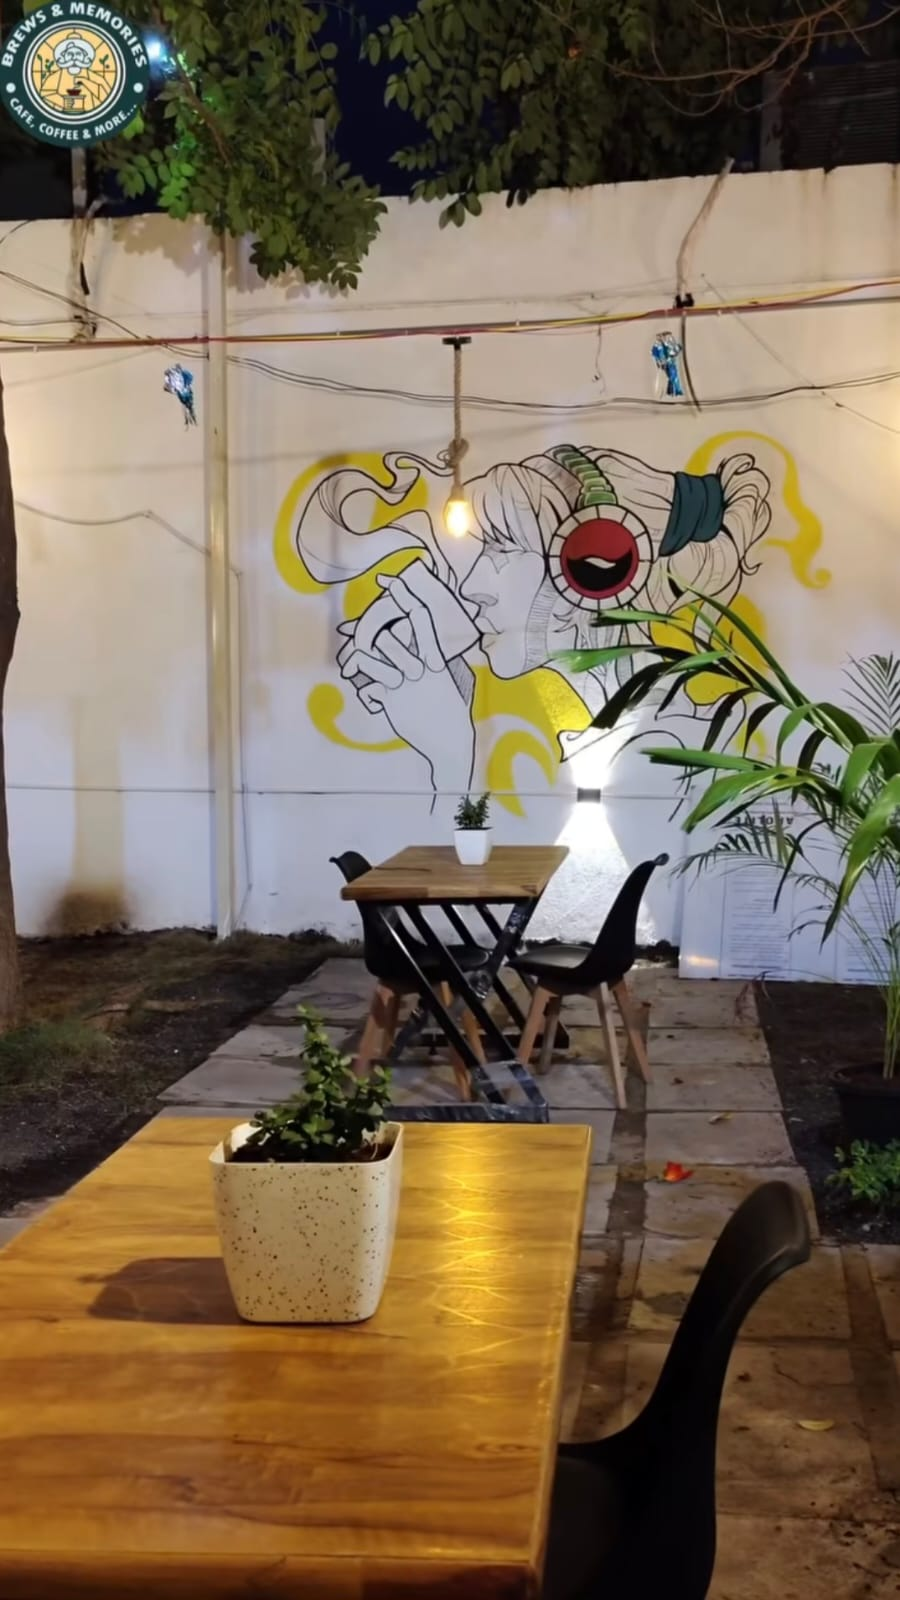
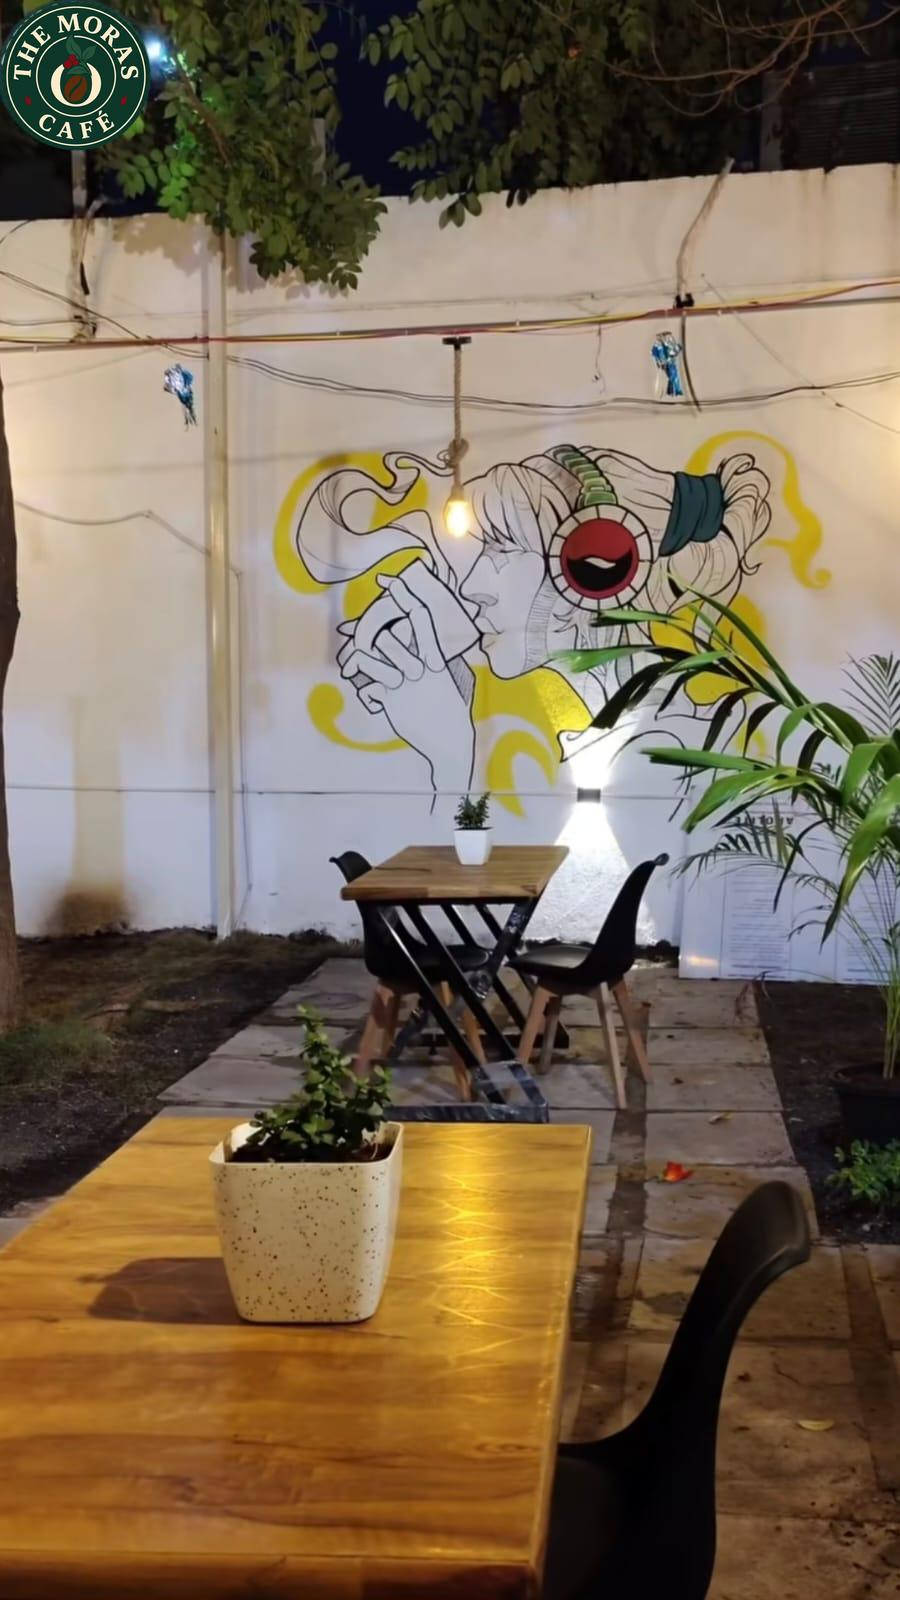
feat(gallery): integrate authentic garden terrace and mural photography across about, reserve, and moments pages

Changed region(s): [[0.0, 0.0, 0.1867, 0.0938]]

diff --git a/frontend/src/pages/About.jsx b/frontend/src/pages/About.jsx
@@ -29,10 +29,10 @@ function About() {
               The Moras Cafe was founded on a simple, timeless belief: a true neighborhood cafe is not merely a place to grab coffee, but a warm sanctuary where people pause, connect, and feel genuinely known.
             </p>
             <p style={{ fontSize: '1.02rem', lineHeight: 1.8, color: 'var(--text-light)', marginBottom: 20 }}>
-              Nestled at B.M. Patil Circle along Vijayapura's Ring Road, we combine artisan roasting techniques with 100% pure vegetarian culinary craft. From slow-pulled espresso shots to hand-stretched stone-baked pizzas, every plate is prepared fresh to order.
+              Nestled at B.M. Patil Circle along Vijayapura's Ring Road, we combine artisan coffee brewing with 100% pure vegetarian culinary craft. From slow-pulled espresso shots to hand-stretched stone-baked pizzas, every plate is prepared fresh to order.
             </p>
             <p style={{ fontSize: '1.02rem', lineHeight: 1.8, color: 'var(--text-light)', marginBottom: 28 }}>
-              Whether you are discovering a quiet corner with a curated book, sharing laughter with longtime friends, or celebrating an evening milestone, we pour our heart into every detail.
+              Whether you are discovering a quiet corner with a curated book, sharing laughter with longtime friends, or celebrating an evening milestone under fairy lights, we pour our heart into every detail.
             </p>
             <div>
               <Link to="/menu" className="btn-editorial-primary" style={{ padding: '14px 32px' }}>
@@ -41,31 +41,61 @@ function About() {
             </div>
           </div>
 
+          {/* Authentic Atmosphere Showcase */}
           <div style={{ position: 'relative' }}>
             <div style={{
-              background: '#FFFFFF',
+              position: 'relative',
               borderRadius: '24px',
-              padding: '40px 32px',
-              border: '1px solid var(--cream-dark)',
-              boxShadow: '0 20px 50px rgba(15, 61, 62, 0.08)',
-              textAlign: 'center'
+              overflow: 'hidden',
+              boxShadow: '0 20px 50px rgba(15, 61, 62, 0.16)',
+              border: '2px solid rgba(214, 210, 196, 0.7)',
+              aspectRatio: '4/5',
+              background: '#0F3D3E'
             }}>
-              <div style={{ display: 'flex', justifyContent: 'center', marginBottom: 24 }}>
-                <img 
-                  src="/logo.png" 
-                  alt="The Moras Cafe Emblem" 
-                  style={{ width: '100%', maxWidth: 200, height: 'auto', objectFit: 'contain', filter: 'drop-shadow(0 10px 20px rgba(15,61,62,0.1))' }} 
-                />
+              <img 
+                src="/images/instagram/hightide_sagar.jpeg" 
+                alt="The Moras Cafe serene garden dining table under warm evening pendant lights" 
+                style={{ width: '100%', height: '100%', objectFit: 'cover', display: 'block' }}
+              />
+              <div style={{
+                position: 'absolute',
+                bottom: 18,
+                left: 18,
+                background: 'rgba(15, 61, 62, 0.92)',
+                color: '#FAF5EF',
+                padding: '8px 18px',
+                borderRadius: '30px',
+                fontSize: '0.82rem',
+                fontWeight: 700,
+                letterSpacing: '0.5px',
+                backdropFilter: 'blur(8px)',
+                display: 'flex',
+                alignItems: 'center',
+                gap: 8,
+                boxShadow: '0 4px 16px rgba(0,0,0,0.25)'
+              }}>
+                <span style={{ color: '#10b981', fontSize: '0.75rem' }}>●</span>
+                <span>Garden Terrace · Vijayapura</span>
               </div>
-              <h2 style={{ fontFamily: "'Playfair Display', serif", fontSize: '1.6rem', color: 'var(--green)', margin: '0 0 8px' }}>
-                The Moras Cafe
-              </h2>
-              <div style={{ color: '#b45309', fontSize: '0.85rem', letterSpacing: '2px', textTransform: 'uppercase', fontWeight: 700, marginBottom: 16 }}>
-                Vijayapura · Karnataka
-              </div>
-              <p style={{ color: 'var(--text-light)', fontSize: '0.94rem', lineHeight: 1.7, margin: 0 }}>
-                Specialty brews, artisan bites, and comfortable spaces crafted for the city we love.
-              </p>
+            </div>
+
+            {/* Official Brand Stamp Seal Badge */}
+            <div style={{
+              position: 'absolute',
+              top: -18,
+              right: -18,
+              width: 76,
+              height: 76,
+              borderRadius: '50%',
+              boxShadow: '0 8px 24px rgba(15,61,62,0.22)',
+              overflow: 'hidden',
+              background: '#FAF5EF'
+            }}>
+              <img 
+                src="/images/brand/secondary-badge-light.png" 
+                alt="The Moras Cafe Seal" 
+                style={{ width: '100%', height: '100%', objectFit: 'contain' }}
+              />
             </div>
           </div>
         </div>
@@ -88,22 +118,22 @@ function About() {
               {
                 num: '01',
                 title: 'Artisan Brews',
-                desc: 'Specialty coffee beans selected and precision-extracted for the cleanest, most aromatically rich cup in Vijayapura.'
+                desc: 'Carefully roasted coffee beans precision-extracted for clean, aromatically rich espresso and specialty frappes.'
               },
               {
                 num: '02',
                 title: 'Pure Vegetarian Craft',
-                desc: 'A dedicated 100% vegetarian kitchen serving sourdough-crust pizzas, fresh pasta, loaded sandwiches, and sizzling treats.'
+                desc: 'A dedicated 100% vegetarian kitchen serving stone-baked pizzas, fresh pasta, loaded sandwiches, and sizzling treats.'
               },
               {
                 num: '03',
                 title: 'Slow Ambiance',
-                desc: 'Comfortable seating, acoustic warmth, and peaceful lighting designed for unhurried conversations and quiet focus.'
+                desc: 'Open-air garden seating, acoustic warmth, and peaceful lighting designed for unhurried conversations and quiet focus.'
               },
               {
                 num: '04',
                 title: 'Curated Library & Games',
-                desc: 'Complimentary reading library and classic tabletop games to unwind with friends and family at your leisure.'
+                desc: 'Complimentary reading library and classic tabletop games to unplug and make memories with friends and family.'
               }
             ].map((pillar) => (
               <div key={pillar.num} style={{
@@ -127,6 +157,103 @@ function About() {
                 </p>
               </div>
             ))}
+          </div>
+        </div>
+      </section>
+
+      {/* CHAPTER 3: OUR SPACES & ATMOSPHERE (GENUINE PHOTO TRILOGY) */}
+      <section style={{ padding: '70px 5%' }}>
+        <div style={{ maxWidth: 1160, margin: '0 auto' }}>
+          <div style={{ textAlign: 'center', marginBottom: 44 }}>
+            <span style={{ fontSize: '0.8rem', letterSpacing: '3px', textTransform: 'uppercase', color: 'var(--green)', fontWeight: 800 }}>
+              The Vibe
+            </span>
+            <h2 style={{ fontFamily: "'Playfair Display', serif", fontSize: 'clamp(2rem, 3.5vw, 2.8rem)', color: 'var(--green)', margin: '8px 0 10px' }}>
+              Spaces Designed to <em>Unwind</em>
+            </h2>
+            <p style={{ color: 'var(--text-light)', maxWidth: 620, margin: '0 auto', fontSize: '1rem', lineHeight: 1.6 }}>
+              Step into an intimate, greenery-wrapped oasis where every corner has its own unique mood.
+            </p>
+          </div>
+
+          <div style={{ display: 'grid', gridTemplateColumns: 'repeat(auto-fit, minmax(300px, 1fr))', gap: '28px' }}>
+            {/* Photo 1: Garden Canopy */}
+            <div style={{
+              background: '#FFFFFF',
+              borderRadius: '20px',
+              overflow: 'hidden',
+              border: '1px solid var(--cream-dark)',
+              boxShadow: '0 12px 32px rgba(15, 61, 62, 0.06)'
+            }}>
+              <div style={{ height: '340px', overflow: 'hidden' }}>
+                <img 
+                  src="/images/instagram/hightide_sagar.jpeg" 
+                  alt="Outdoor garden terrace dining with fairy lights" 
+                  style={{ width: '100%', height: '100%', objectFit: 'cover' }}
+                  loading="lazy"
+                />
+              </div>
+              <div style={{ padding: '24px 20px' }}>
+                <h3 style={{ fontFamily: "'Playfair Display', serif", fontSize: '1.25rem', color: 'var(--green)', margin: '0 0 8px' }}>
+                  The Garden Canopy
+                </h3>
+                <p style={{ color: 'var(--text-light)', fontSize: '0.9rem', lineHeight: 1.6, margin: 0 }}>
+                  Intimate open-air dining tables shaded by trees, framed by white picket fences, and softly lit with warm pendant bulbs.
+                </p>
+              </div>
+            </div>
+
+            {/* Photo 2: Twilight Evenings */}
+            <div style={{
+              background: '#FFFFFF',
+              borderRadius: '20px',
+              overflow: 'hidden',
+              border: '1px solid var(--cream-dark)',
+              boxShadow: '0 12px 32px rgba(15, 61, 62, 0.06)'
+            }}>
+              <div style={{ height: '340px', overflow: 'hidden' }}>
+                <img 
+                  src="/images/instagram/mahantesh_loni.jpeg" 
+                  alt="Twilight ambience with glowing dreamcatcher" 
+                  style={{ width: '100%', height: '100%', objectFit: 'cover' }}
+                  loading="lazy"
+                />
+              </div>
+              <div style={{ padding: '24px 20px' }}>
+                <h3 style={{ fontFamily: "'Playfair Display', serif", fontSize: '1.25rem', color: 'var(--green)', margin: '0 0 8px' }}>
+                  Twilight Ambience
+                </h3>
+                <p style={{ color: 'var(--text-light)', fontSize: '0.9rem', lineHeight: 1.6, margin: 0 }}>
+                  Handcrafted dreamcatchers and bohemian accents casting golden glow across the evening lawn as the sun sets.
+                </p>
+              </div>
+            </div>
+
+            {/* Photo 3: The Coffee Mural */}
+            <div style={{
+              background: '#FFFFFF',
+              borderRadius: '20px',
+              overflow: 'hidden',
+              border: '1px solid var(--cream-dark)',
+              boxShadow: '0 12px 32px rgba(15, 61, 62, 0.06)'
+            }}>
+              <div style={{ height: '340px', overflow: 'hidden' }}>
+                <img 
+                  src="/images/instagram/manju_duddagi.jpeg" 
+                  alt="Artistic coffee mural corner in outdoor seating" 
+                  style={{ width: '100%', height: '100%', objectFit: 'cover' }}
+                  loading="lazy"
+                />
+              </div>
+              <div style={{ padding: '24px 20px' }}>
+                <h3 style={{ fontFamily: "'Playfair Display', serif", fontSize: '1.25rem', color: 'var(--green)', margin: '0 0 8px' }}>
+                  The Coffee Mural Corner
+                </h3>
+                <p style={{ color: 'var(--text-light)', fontSize: '0.9rem', lineHeight: 1.6, margin: 0 }}>
+                  Vibrant custom wall art celebrating music, coffee culture, and unhurried good times with your squad.
+                </p>
+              </div>
+            </div>
           </div>
         </div>
       </section>

diff --git a/frontend/src/pages/Reserve.jsx b/frontend/src/pages/Reserve.jsx
@@ -1,4 +1,4 @@
-import { useState } from 'react';
+import { useState } from 'react';
 import api from '../services/api';
 import useSEO from '../hooks/useSEO';
 
@@ -61,7 +61,8 @@ function Reserve() {
         <div className="section-divider" />
       </div>
 
-      <div className="reservation-form-container">
+      <div className="reservation-page-split" style={{ maxWidth: 1140, margin: '0 auto', display: 'grid', gridTemplateColumns: 'repeat(auto-fit, minmax(320px, 1fr))', gap: '40px', alignItems: 'start' }}>
+        <div className="reservation-form-container" style={{ margin: 0, width: '100%', maxWidth: 'none' }}>
         {success ? (
           <div className="order-success">
             <div className="success-icon" style={{ fontSize: '3.5rem', marginBottom: 16 }}>🎉</div>
@@ -218,6 +219,50 @@ function Reserve() {
             </button>
           </form>
         )}
+      </div>
+
+        {/* Atmosphere Preview Card */}
+        <div className="reservation-atmosphere-card" style={{ background: '#FFFFFF', borderRadius: '24px', overflow: 'hidden', border: '1px solid var(--cream-dark)', boxShadow: '0 16px 40px rgba(15,61,62,0.08)' }}>
+          <div style={{ position: 'relative', height: 320, overflow: 'hidden' }}>
+            <img 
+              src="/images/instagram/hightide_sagar.jpeg" 
+              alt="Outdoor garden table seating under warm evening lights at The Moras Cafe"
+              style={{ width: '100%', height: '100%', objectFit: 'cover', display: 'block' }}
+            />
+            <div style={{ position: 'absolute', bottom: 14, left: 14, background: 'rgba(15, 61, 62, 0.92)', color: '#FAF5EF', padding: '6px 14px', borderRadius: 20, fontSize: '0.78rem', fontWeight: 700, backdropFilter: 'blur(8px)', display: 'flex', alignItems: 'center', gap: 6 }}>
+              <span style={{ color: '#10b981' }}>●</span>
+              <span>Garden Terrace Seating</span>
+            </div>
+          </div>
+          <div style={{ padding: '28px 24px' }}>
+            <h3 style={{ fontFamily: "'Playfair Display', serif", fontSize: '1.4rem', color: 'var(--green)', margin: '0 0 10px' }}>
+              Your Table Awaits
+            </h3>
+            <p style={{ color: 'var(--text-light)', fontSize: '0.92rem', lineHeight: 1.6, margin: '0 0 20px' }}>
+              Whether you prefer our quiet indoor library corners or our fairy-lit open-air garden, every table at The Moras Cafe is prepared with warm hospitality.
+            </p>
+            <ul style={{ listStyle: 'none', padding: 0, margin: '0 0 24px', display: 'flex', flexDirection: 'column', gap: 12 }}>
+              <li style={{ display: 'flex', alignItems: 'center', gap: 10, fontSize: '0.9rem', color: 'var(--green)', fontWeight: 600 }}>
+                <span>🌿</span> Open-air garden &amp; cozy indoor spaces
+              </li>
+              <li style={{ display: 'flex', alignItems: 'center', gap: 10, fontSize: '0.9rem', color: 'var(--green)', fontWeight: 600 }}>
+                <span>📶</span> High-speed Wi-Fi &amp; charging outlets
+              </li>
+              <li style={{ display: 'flex', alignItems: 'center', gap: 10, fontSize: '0.9rem', color: 'var(--green)', fontWeight: 600 }}>
+                <span>🎯</span> Free board games &amp; curated book library
+              </li>
+              <li style={{ display: 'flex', alignItems: 'center', gap: 10, fontSize: '0.9rem', color: 'var(--green)', fontWeight: 600 }}>
+                <span>✨</span> Zero reservation or cover charges
+              </li>
+            </ul>
+            <div style={{ borderTop: '1px solid var(--cream-dark)', paddingTop: 16, display: 'flex', justifyContent: 'space-between', alignItems: 'center', flexWrap: 'wrap', gap: 8 }}>
+              <span style={{ fontSize: '0.85rem', color: 'var(--text-light)' }}>Need an instant booking?</span>
+              <a href="tel:+919945446137" style={{ color: 'var(--green)', fontWeight: 800, textDecoration: 'none', fontSize: '0.92rem' }}>
+                📞 +91 99454 46137
+              </a>
+            </div>
+          </div>
+        </div>
       </div>
 
       <div style={{ textAlign: 'center', marginTop: 36, color: 'var(--text-light)', fontSize: '0.9rem' }}>

diff --git a/frontend/src/pages/Moments.jsx b/frontend/src/pages/Moments.jsx
@@ -1,4 +1,4 @@
-import { useEffect, useState } from 'react';
+import { useEffect, useState } from 'react';
 import useSEO from '../hooks/useSEO';
 
 const instagramWidgetUrl = import.meta.env.VITE_INSTAGRAM_WIDGET_URL || 'b16a01b6-838f-4360-88fc-9a34d2927446';
@@ -30,7 +30,7 @@ const INSTAGRAM_POSTS = [
     collaborators: 'and 1 other',
     initials: 'MD',
     image: '/images/instagram/manju_duddagi.jpeg',
-    caption: 'New Cafein Bijapur..! ✨\nCome for The Brews, Stay for The Memories ☕💛\n📍Visit Today & Create Your Story Here!\n#brewsandmemories\n\n#brewsandmemories #cafelaunch #coffeevibes #cozycafe #cafenights #newcafeInbijapur #coffeeloversclub #cafegoals #eveningvibes #foodielife #bestplace #instacafevibes #bijapur #bijapurmerijaan #bijapurfoodwalks #vijayapura #karnataka #foodlovers #viral #reels #cafe #cafelovers',
+    caption: 'A magical evening at The Moras Cafe! ✨\nArtisan coffee, garden vibes, and unforgettable memories ☕💛\n📍Visit us at B.M. Patil Circle, Vijayapura!\n#themorascafe #vijayapuracafe #gardenvibes #coffeeandstories',
     likes: 356,
     comments: 52,
     date: 'May 08, 2026',
@@ -38,7 +38,7 @@ const INSTAGRAM_POSTS = [
   },
   {
     username: 'mahantesh_loni',
-    collaborators: 'and brews_and_memories_',
+    collaborators: 'and 1 other',
     initials: 'ML',
     image: '/images/instagram/mahantesh_loni.jpeg',
     caption: '#cafe #coffeelover #pizza',
